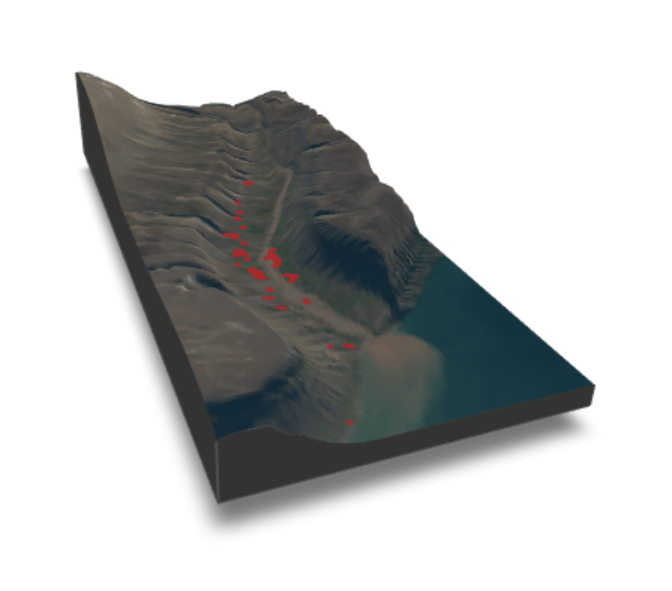
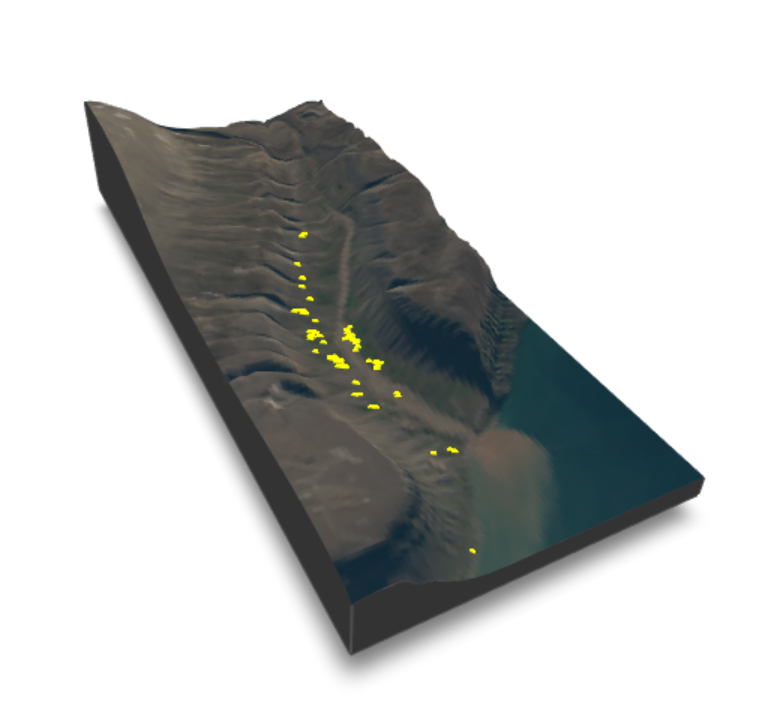
update website

diff --git a/docs/Vis_Location_Rayshader.html b/docs/Vis_Location_Rayshader.html
@@ -460,7 +460,7 @@ coords_y &lt;- geom(data_cropped)[, c(&quot;y&quot;)]
 # Add 3D points and render them on our 3D plot of Bjorndalen
 render_points(lat = coords_y, long = coords_x,
               heightmap = bjorndalen,
-              zscale = 15, color = &quot;brown&quot;,
+              zscale = 15, color = &quot;yellow&quot;,
               extent = ext(dem_bjorndalen),
               offset = 1,
               clear_previous = TRUE,
